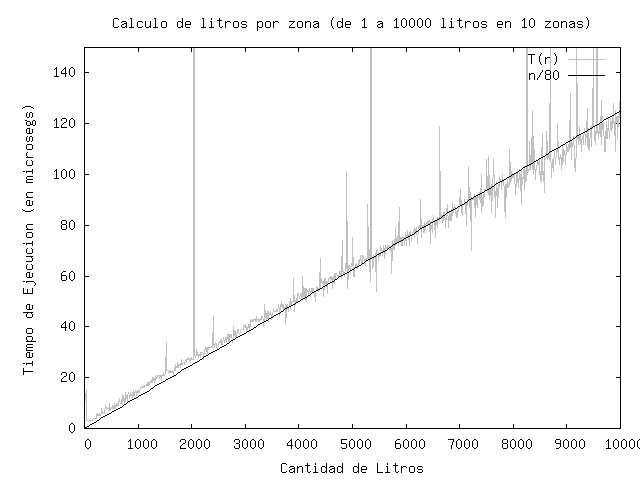
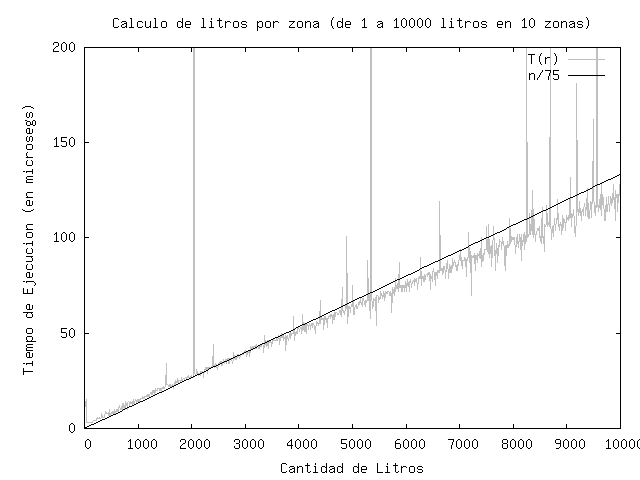
Informe: Analisis de resultados casi casi listo.

diff --git a/Algo3-TP2/tp2.tex b/Algo3-TP2/tp2.tex
@@ -187,7 +187,7 @@ Con el fin de analizar la complejidad de los algoritmos propuestos (fumigación 
 
 A continuación se describirán las características de las instancias utilizadas para las pruebas así como las particularidades de cada experimento. Dichas cuestiones son comunes al analisis de ambos algoritmos por lo que no haremos referencia a ninguno en particular. Más adelante analizaremos resultados de estos experimentos aplicado a cada uno de los algoritmos.
 
-Para las instancias de prueba se utilizó la función \textit{random} del lenguaje para generar matrices de \textit{mosquitosMuertos}) de tamaño $zonas*litros$ con valores aleatorios comprendidos entre $1$ y $10000$ con el fin de garantizar que las pruebas resulten lo suficientemente genéricas como para poder obtener resultados ``interesantes''.
+Para las instancias de prueba se utilizó la función \textit{random} del lenguaje para generar matrices de \textit{mosquitosMuertos}) de tamaño $zonas*litros$ con valores aleatorios comprendidos entre $1$ y $10000$ con el fin de garantizar que las pruebas resulten lo suficientemente genéricas como para poder obtener resultados ``interesantes''. Cabe mencionar que no se harán estudios sobre instancias particulares ya que, como se mencionó antes, el costo de ejecución del algoritmo de \textit{fumigación} no depende de los valores de la matriz de entrada que conforma cada instancia.
 
 En primer lugar, se hicieron cálculos utilizando como variable la cantidad de zonas a fumigar, fijando en $10$ los litros disponibles. El rango de zonas analizados es desde $1$ hasta $10000$ zonas, de a intervalos de tamaño $10$. La elección de estos valores fue producto del análisis de 2 cuestiones importantes: que números permitirían tomar muestras utiles para la realización de los gráficos y cual era la máxima cantidad de datos que nuestra aplicación podría manejar, acotada por el tiempo disponible para realizar las pruebas y las limitacion propias de la máquina en cuestión. Empiricamente, se comprobó que dicho rango de zonas permitía correr la aplicación en un tiempo razonable y al mismo tiempo proveer datos interesantes para el análisis en cuestión. Del mismo modo, fijar en 10 los litros aseguró que sea la cantidad de zonas el parámetro ponderante en el cálculo de tiempo de ejecución.
 
@@ -202,31 +202,71 @@ A continuación se presentarán los gráficos realizados para cada algoritmo uti
 Como se vió anteriormente, la primer parte del problema consistía en calcular la máxima cantidad de mosquitos muertos para una instancia determinada. Los siguientes gráficos muestran el comportamiento de este algoritmo en base a los dos parámetros de entrada de manera independiente:
 
 \begin{center}
- \includegraphics[width=0.7\textwidth]{Plots/Tp2Ej1-TiemposFumigacionPorLitros-10zonas-bw.png}
+ \includegraphics[width=0.7\textwidth]{Plots/Tp2Ej1-TiemposFumigacionPorZonas-10litros-bw.png}
 \begin{center}
 Figura 1.1
 \end{center}
-\includegraphics[width=0.7\textwidth]{Plots/Tp2Ej1-TiemposFumigacionPorZonas-10litros-bw.png}
+ \includegraphics[width=0.7\textwidth]{Plots/Tp2Ej1-TiemposFumigacionPorLitros-10zonas-bw.png}
 \begin{center}
 Figura 1.2
 \end{center}
 \end{center}
 
-Ambos gráficos permiten observar algunas cuestiones interesantes. La Figura 1.1 muestra como la función T(n) que representa el tiempo de ejecución se comporta prácticamente igual que la función $f(n) = n^2/19 \in O(n^2)$. Este hecho demuestra empíricamente que la complejidad con respecto a la cantidad de litros es cuadrática al realizar la fumigación tal como se había analizado anteriormente. Del mismo modo, la Figura 1.2 el
+Ambos gráficos permiten observar algunas cuestiones interesantes. La Figura 1.1 permite observar como el comportamiento del algoritmo de \textit{fumigación} con respecto a la cantidad de zonas se asimila a una función lineal, hecho que se corresponde con la complejidad calculada anteriormente. Del mismo modo, la Figura 1.2 muestra como la función T(n) que representa el tiempo de ejecución se comporta prácticamente igual que la función $f(n) = n^2/19 \in O(n^2)$. Este hecho demuestra empíricamente que la complejidad con respecto a la cantidad de litros es cuadrática al realizar la fumigación tal como se había analizado anteriormente.
 
-%TODO
+Otras cuestión observable son los ``picos'' y variaciones abrutas en ambos gráficos. En principio, esto no debería ocurrir ya que la complejidad no depende de la forma de la entrada como se mencionó anteriormente. El motivo de esto radica simplemente en los errores de precisión en la medición de las operaciones propios de las limitaciones de la máquina de cómputo utilizada. Los tiempos de ejecución del algoritmo son mucho mayores en la Figura 1.2 lo que resulta en una mayor estabilidad en los cálculo de tiempo, en contraste con la Figura 1.1 donde hay mayor impresición porque dicho gráfico refleja cambios de valores más abrutos.
+
+\begin{center}
+ \includegraphics[width=0.7\textwidth]{Plots/Tp2Ej1-TiemposFumigacion-3d-bw.png}
+\begin{center}
+Figura 1.3
+\end{center}
+\end{center}
+
+Esta última figura permite ver como el algoritmo en su totalidad realmente se comporta de la forma esperada. 
+Para esto basta comparar los tiempos de ejecución al variar ambos parámetros (litros y zonas) junto con la función $f(n,m) = n*m^2/200 \in O(n*m^2)$ viendo que ambas ``mantas'' coiniciden. Este ultimo hecho constituye la última prueba de que empirícamente el algoritmo funciona tal como se esperaba.
 
 \subsection*{Cálculo de Litros Por Zona}
 
-%TODO
+En esta sección analizaremos el comportamiento del otro algortimo propuesto que se encarga de dar parte de la solución del problema: el algoritmo encargado de calcular los litros a utilizar por cada zona. Los siguientes gráficos muestran el comportamiento del mismo en base a las dos variables en cuestión de forma independiente:
+
+\begin{center}
+ \includegraphics[width=0.7\textwidth]{Plots/Tp2Ej1-TiemposLitrosPorZonaPorZonas-10litros-bw.png}
+\begin{center}
+Figura 2.1
+\end{center}
+ \includegraphics[width=0.7\textwidth]{Plots/Tp2Ej1-TiemposLitrosPorZonaPorZonas-10zonas-bw.png}
+\begin{center}
+Figura 2.2
+\end{center}
+\end{center}
+
+Como se puede observar, en ambos casos, el comportamiento del algoritmo es el esperado. La Figura 2.1 muestra como el cálculo de litros por zona se ``corresponde'' con el gráfico de la función lineal $f(n) = n/25$ al variar la cantidad de zonas y fijar los litros en $10$. Asímismo, la Figura 2.2 se comporta de la forma $f(n) = n/75$ al variar los litros y fijar las zonas. Esto comprueba la linealidad en complejidad teórica analizada previamente para ambas variables. Un punto interesante a observar es que las constantes que acompañan a estas funciones difieren, siendo la constante relacionada al primer gráfico ($1/25$) 3 veces mayor que la otra ($1/75$). Al tratarse de instancias de igual tamaño (en ambos casos, matrices desde $1*10$ hasta $10000*10$), se puede concluir que la \textit{performance} de este algoritmo depende en mayor medida de la cantidad de zonas que de la cantidad de litros. En otras palabras, para instancias de igual tamaño, un caso demora 3 veces más el otro. \textbf{POR QUE?}
+
+Con respecto a la irregularidad del gráfico, cabe notar que, a diferencia del algoritmo anterior, este algoritmo no realiza siempre la misma cantidad de operaciones para instancias de igual tamaño tal como se vió en la sección de análisis de complejidad, ya que el recorrido inverso de la matriz resultante depende justamente de los valores que esta contenga que dependen a su vez de los valores de la matriz de entrada \textit{mosquitosMuertos} (ver sección \textit{Algoritmo}). Por este motivo, debido a que se trata de instancias aleatorias, es esperable que no se obtenga un comportamiento ``tan'' similar a la función lineal propuesta como ocurre para el primer algoritmo.
+
+Por último, al igual que para el algoritmo anterior, se presenta el siguiente gráfico de 3 dimensiones:
+
+\begin{center}
+ \includegraphics[width=0.7\textwidth]{Plots/Tp2Ej1-TiemposLitrosPorZona-3d-bw.png}
+\begin{center}
+Figura 1.3
+\end{center}
+\end{center}
+
+Al igual que antes, este gráfico permite ver la complejidad de ambos parámetros en conjunto. \textbf{TODO}
 
 \section*{Conclusiones}
 
-Este ejercicio nos mostr\'o un caso representativo en el que el tiempo de ejecuci\'on difiere notablemente a la complejidad calculada para el peor caso.
+%TODO: Decir que se podria haber analizado los algoritmos recursivos que repiten operaciones vs la programacion dinamica pero no hubo tiempo.
 
-Para este algoritmo en particular se debe a que la funci\'on \textit{encontrarPrimos} alcanzar\'ia dicho peor caso si la conjetura de Goldbach fuese falsa, cuesti\'on que no sucede para ning\'un n\'umero que pueda tomar la func\'on (es decir, hasta el n\'umero mas grande almacenable en un \textit{int}). M\'as aun, esta demostrado que para n\'umeros mucho mas grandes que los testeados la conjetura se sigue cumpliendo (ver secci\'on Referencias para m\'as detalles) por lo que en el \'ambito cient\'ifico se cree que es cierta.
+% Este ejercicio nos mostr\'o un caso representativo en el que el tiempo de ejecuci\'on difiere notablemente a la complejidad calculada para el peor caso.
+% 
+% Para este algoritmo en particular se debe a que la funci\'on \textit{encontrarPrimos} alcanzar\'ia dicho peor caso si la conjetura de Goldbach fuese falsa, cuesti\'on que no sucede para ning\'un n\'umero que pueda tomar la func\'on (es decir, hasta el n\'umero mas grande almacenable en un \textit{int}). M\'as aun, esta demostrado que para n\'umeros mucho mas grandes que los testeados la conjetura se sigue cumpliendo (ver secci\'on Referencias para m\'as detalles) por lo que en el \'ambito cient\'ifico se cree que es cierta.
+% 
+% Tambi\'en vimos casos en los que entre n\'umeros cercanos tomados por la funci\'on, el tiempo de ejecuci\'on difiere considerablemente. Adem\'as notamos que a medida que el tama\~{n}o del par\'ametro de entrada crece el tiempo tamb\'ien lo hace, pero siempre muy lejos de los peores casos para dichas entradas. Estas situaciones se deben a la desconocida distribuci\'on de los n\'umeros primos entre los naturales, por lo que no podemos dar una explicaci\'on general que incluya todos los casos reales. Sin embargo, en base a todos los an\'alisis realizados, podemos concluir que para todos los casos computables por nuestro algoritmo el tiempo de ejecuci\'on ser\'a mas que aceptable.
 
-Tambi\'en vimos casos en los que entre n\'umeros cercanos tomados por la funci\'on, el tiempo de ejecuci\'on difiere considerablemente. Adem\'as notamos que a medida que el tama\~{n}o del par\'ametro de entrada crece el tiempo tamb\'ien lo hace, pero siempre muy lejos de los peores casos para dichas entradas. Estas situaciones se deben a la desconocida distribuci\'on de los n\'umeros primos entre los naturales, por lo que no podemos dar una explicaci\'on general que incluya todos los casos reales. Sin embargo, en base a todos los an\'alisis realizados, podemos concluir que para todos los casos computables por nuestro algoritmo el tiempo de ejecuci\'on ser\'a mas que aceptable.
+TODO
 
 \bigskip
 
